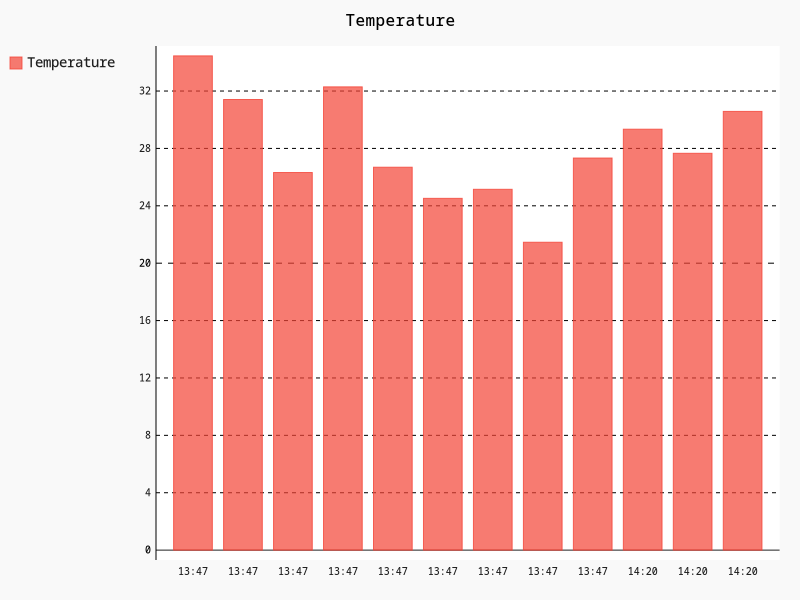
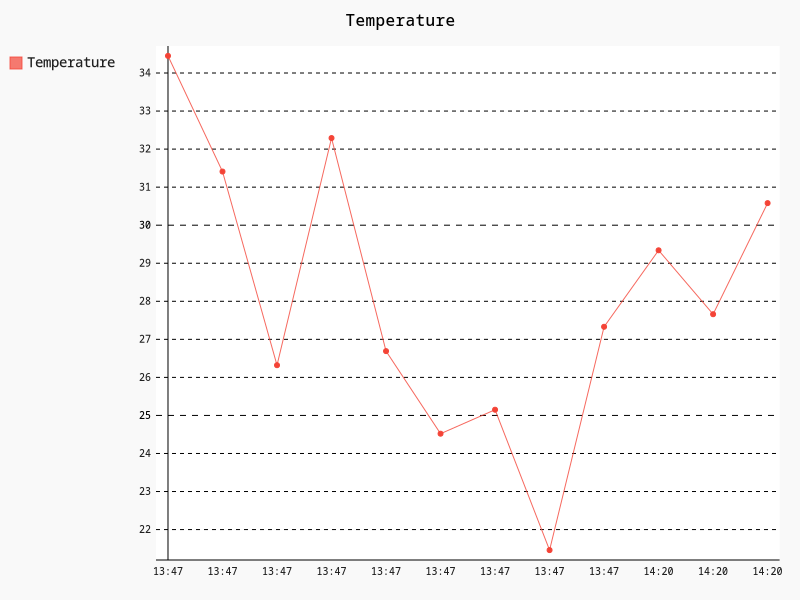
charts url for Line charts

diff --git a/templates/index.html b/templates/index.html
@@ -19,6 +19,9 @@
         <div class="db-page header-component">
             <a href="{{ url_for('database') }}">Database</a>
         </div>
+        <div class="chart-page header-component">
+            <a href="{{ url_for('chart') }}">Chart</a>
+        </div>
     </header>
 
     {% block content %}
@@ -26,7 +29,7 @@
         <div class="row">
             <div class="tile-1 tiles"><div class="test-tile temp-tile"><a href="{{ url_for('weather') }}">Weather</a></div></div>
             <div class="tile-2 tiles"><div class="test-tile"><a href="{{ url_for('database') }}">Database</a></div></div>
-            <div class="tile-3 tiles"><div class="test-tile">Test</div></div>
+            <div class="tile-3 tiles"><div class="test-tile"><a href="{{ url_for('chart')}}">Charts</a></div></div>
         </div>
 
         <div class="row">

diff --git a/templates/temp_plot.html b/templates/temp_plot.html
@@ -3,4 +3,8 @@
     {% block content %}
     <p style="color:rgb(218, 0, 207); margin: 20px ;">Temperature Plot</p>
     <img src="{{ url_for('static', filename='temp_plot.png') }}" alt="Temperature Plot">
+    <p style="color:rgb(218, 0, 207); margin: 20px ;">Humidity Plot</p>
+    <img src="{{ url_for('static', filename='hum_plot.png') }}" alt="Humidity Plot">
+    <p style="color:rgb(218, 0, 207); margin: 20px ;">Pressure Plot</p>
+    <img src="{{ url_for('static', filename='press_plot.png') }}" alt="Pressure Plot">
     {% endblock %}

diff --git a/app.py b/app.py
@@ -138,9 +138,10 @@ def delete_measurement(measure_id):
     db.commit()
     return redirect(url_for("database"))
 
-@app.route("/temp/plot", methods=['POST', 'GET'])
-def temp_plot():
-    chart  = pygal.Bar()
+@app.route("/charts", methods=['POST', 'GET'])
+def chart():
+    # TEMPERATURE
+    chart  = pygal.Line()
     chart.title = 'Temperature'
     db = get_db()
     rows = db.execute("SELECT temp FROM measurements").fetchall()
@@ -153,7 +154,37 @@ def temp_plot():
     temps = [row['temp'] for row in rows]
     chart.add('Temperature', temps)
     chart.render_to_png('static/temp_plot.png')
-    return render_template('temp_plot.html', image_url='static/temp_plot.svg')
+    # HUM
+    chart2  = pygal.Line()
+    chart2.title = 'Humidity'
+    db = get_db()
+    rows = db.execute("SELECT hum FROM measurements").fetchall()
+    dates = db.execute("SELECT created_at FROM measurements").fetchall()
+    dates_hours = []
+    for date in dates:
+        date = date[0][11:16]
+        dates_hours.append(date)
+    chart2.x_labels = dates_hours
+    hums = [row['hum'] for row in rows]
+    chart2.add('Humidity', hums)
+    chart2.render_to_png('static/hum_plot.png')
+    # PRESSURE
+    chart3  = pygal.Line()
+    chart3.title = 'Pressure'
+    db = get_db()
+    rows = db.execute("SELECT press FROM measurements").fetchall()
+    dates = db.execute("SELECT created_at FROM measurements").fetchall()
+    dates_hours = []
+    for date in dates:
+        date = date[0][11:16]
+        dates_hours.append(date)
+    chart3.x_labels = dates_hours
+    presses = [row['press'] for row in rows]
+    chart3.add('Pressure', presses)
+    chart3.render_to_png('static/press_plot.png')
+    # RENDER TEMPLATE
+    return render_template('temp_plot.html')
+
 
 
 if __name__ == '__main__':    app.run(host='0.0.0.0', port=5001, debug=True) # uruchamia serwer Flask na porcie 5001, dostępny dla wszystkich interfejsów sieciowych.
